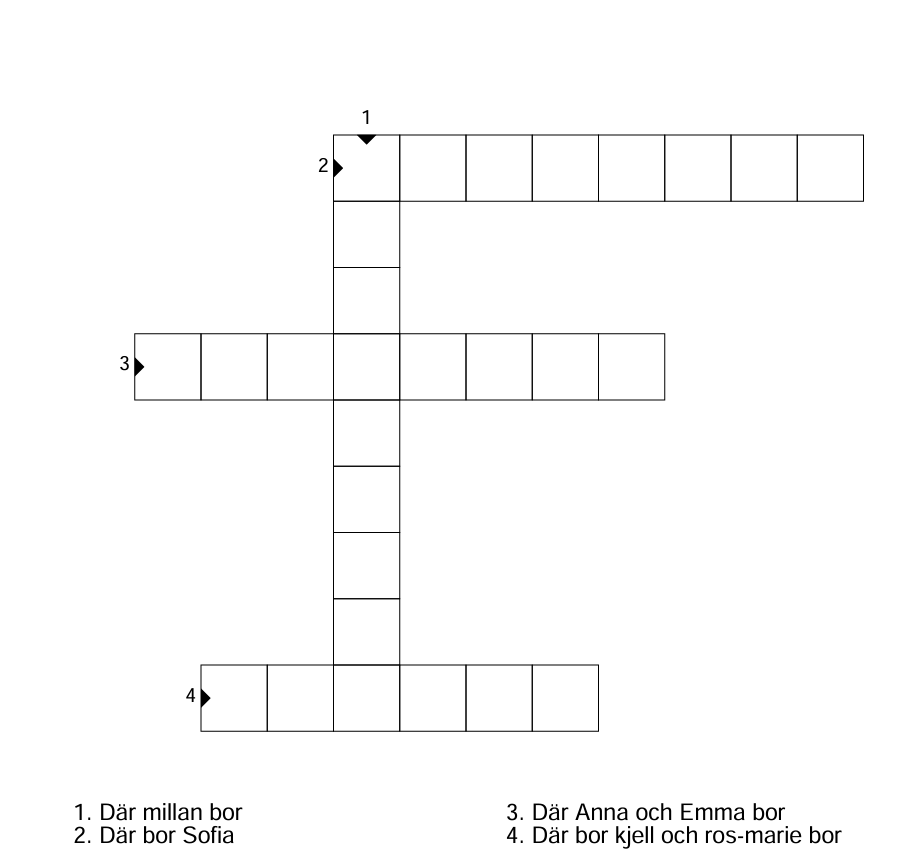
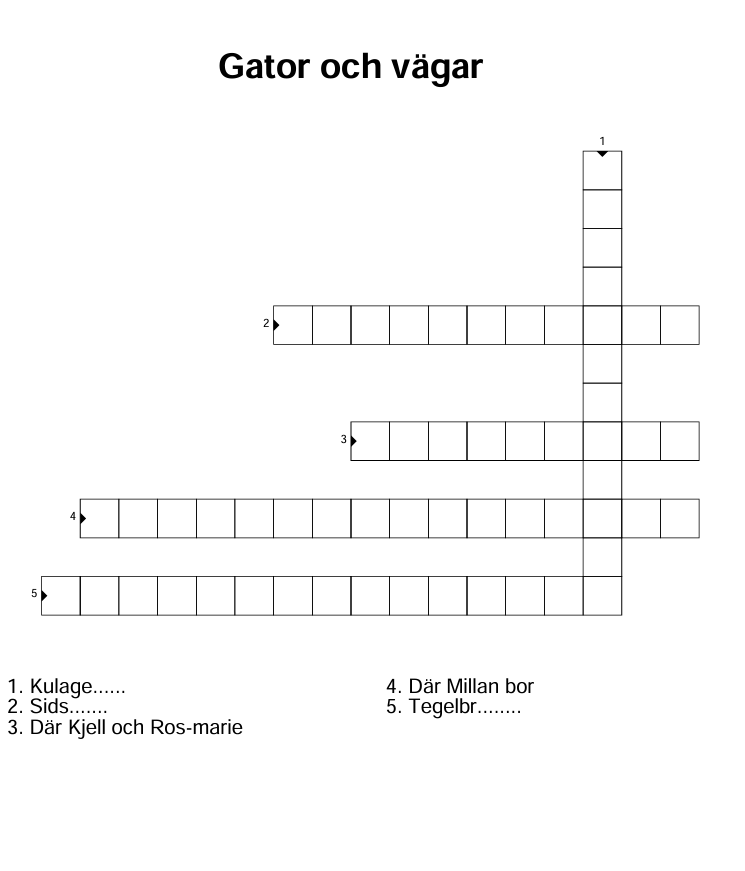
Add files via upload

diff --git a/livefakta.html b/livefakta.html
@@ -4,67 +4,10 @@
   <meta charset="UTF-8">
   <meta name="viewport" content="width=device-width, initial-scale=1.0">
 
-  <title>Livefakta om Millan – Millans Tidning</title>
+  <title> Millans Tidning</title>
 
   <link rel="icon" type="image/png" href="logga.png">
   <link rel="stylesheet" href="style.css">
-
-  <style>
-    #secretNews {
-      display: none;
-    }
-
-    #secretNews.show {
-      display: block;
-      animation: senNyhetIn 0.9s ease;
-    }
-
-    #lastNews {
-      text-align: center;
-      transition: all 0.4s ease;
-    }
-
-    #lastNews.waiting {
-      background: #fff7dc;
-    }
-
-    .news-dot {
-      display: inline-block;
-      animation: blinkDot 1s ease-in-out infinite;
-    }
-
-    .news-dot:nth-child(2) {
-      animation-delay: 0.2s;
-    }
-
-    .news-dot:nth-child(3) {
-      animation-delay: 0.4s;
-    }
-
-    @keyframes senNyhetIn {
-      from {
-        opacity: 0;
-        transform: translateY(45px);
-      }
-
-      to {
-        opacity: 1;
-        transform: translateY(0);
-      }
-    }
-
-    @keyframes blinkDot {
-      0%, 100% {
-        opacity: 0.25;
-        transform: translateY(0);
-      }
-
-      50% {
-        opacity: 1;
-        transform: translateY(-3px);
-      }
-    }
-  </style>
 </head>
 
 <body>
@@ -77,7 +20,13 @@
 <nav>
   <div class="overlay"></div>
 
-  <div class="menu-toggle" role="button" tabindex="0" aria-label="Öppna meny" aria-expanded="false">
+  <div
+    class="menu-toggle"
+    role="button"
+    tabindex="0"
+    aria-label="Öppna meny"
+    aria-expanded="false"
+  >
     ☰
   </div>
 
@@ -114,39 +63,40 @@
 
   <div class="article">
     <h2>😺 Millans humör</h2>
+
     <p>Idag verkar Millan vara:</p>
-    <p style="font-size: 1.4rem;">💙 Väldigt trött för att hon har fött barn.</p>
+
+    <p style="font-size: 1.4rem;">
+      💙 Väldigt trött för att hon har fött barn.
+    </p>
   </div>
 
   <div class="article">
     <h2>📸 Dagens bild</h2>
+
     <img src="dagensbild.jpeg" alt="Millans kattungar">
+
     <p>Här är en riktigt fin bild på Millans kattungar.</p>
   </div>
 
-  <div class="article" id="lastNews" aria-live="polite">
-    <h2>📰 Dagens nyheter är slut</h2>
-    <p>Det var allt från Millans Tidning idag. Tack för att du läste!</p>
-  </div>
+  <div class="article">
+    <h2>🐾 Senaste nytt</h2>
 
-  <div class="article" id="secretNews">
-    <h2>🐾 Vänta – en sen nyhet har kommit in!</h2>
-
-    </h3>Millan kattungar har varit ute ur födargarderoben!</h3>
-
+    <h3>Millans kattungar har varit ute ur födelsegarderoben!</h3>
 
     <p>
-      Precis när vi trodde att dagens rapportering var avslutad kom en ny uppgift in till redaktionen.
+      En ny uppgift har kommit in till redaktionen.
     </p>
 
     <p>
-      Millan låg med de utanförboet.
+      Millan låg med kattungarna utanför boet.
     </p>
 
     <p>
-      Tyvär har vi ingen bild.
+      Tyvärr har vi ingen bild.
     </p>
   </div>
+
 
 </main>
 
@@ -157,19 +107,35 @@
 <script>
   const toggle = document.querySelector(".menu-toggle");
   const menu = document.querySelector(".menu");
+  const overlay = document.querySelector(".overlay");
 
-  function toggleMenu(event) {
+  function openOrCloseMenu(event) {
     event.stopPropagation();
+
     const isOpen = menu.classList.toggle("active");
+
     toggle.setAttribute("aria-expanded", String(isOpen));
+
+    if (overlay) {
+      overlay.classList.toggle("active", isOpen);
+    }
   }
 
-  toggle.addEventListener("click", toggleMenu);
+  function closeMenu() {
+    menu.classList.remove("active");
+    toggle.setAttribute("aria-expanded", "false");
+
+    if (overlay) {
+      overlay.classList.remove("active");
+    }
+  }
+
+  toggle.addEventListener("click", openOrCloseMenu);
 
   toggle.addEventListener("keydown", (event) => {
     if (event.key === "Enter" || event.key === " ") {
       event.preventDefault();
-      toggleMenu(event);
+      openOrCloseMenu(event);
     }
   });
 
@@ -177,36 +143,11 @@
     event.stopPropagation();
   });
 
-  document.addEventListener("click", () => {
-    menu.classList.remove("active");
-    toggle.setAttribute("aria-expanded", "false");
-  });
+  document.addEventListener("click", closeMenu);
 
-  const lastNews = document.getElementById("lastNews");
-  const secretNews = document.getElementById("secretNews");
-
-  window.setTimeout(() => {
-    lastNews.classList.add("waiting");
-    lastNews.innerHTML = `
-      <h2>⌛ Vänta lite...</h2>
-      <p>
-        Det verkar som att en ny uppgift precis kommit in till redaktionen
-        <span class="news-dot">.</span>
-        <span class="news-dot">.</span>
-        <span class="news-dot">.</span>
-      </p>
-    `;
-  }, 2500);
-
-  window.setTimeout(() => {
-    lastNews.style.display = "none";
-    secretNews.classList.add("show");
-
-    secretNews.scrollIntoView({
-      behavior: "smooth",
-      block: "start"
-    });
-  }, 5200);
+  if (overlay) {
+    overlay.addEventListener("click", closeMenu);
+  }
 </script>
 
 </body>

diff --git a/spel2.html b/spel2.html
@@ -450,7 +450,7 @@
   <div class="menu" id="menu">
     <a href="home.html">Start</a>
     <a href="livefakta.html">Livefakta om Millan</a>
-    <a href="spel1.html">Lek med Millan</a>
+    <a href="spel.html">Lek med Millan</a>
     <a href="spel2.html" aria-current="page">Kurragömma med Millan</a>
   </div>
 </nav>